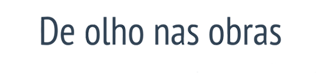
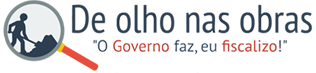
Ajustamentos nos logotipos e alguns estilos

diff --git a/gd/content/templates/resultados.html b/gd/content/templates/resultados.html
@@ -2,6 +2,20 @@
 
 {% block javascript %}
 <script src="{{ url_for('static', filename='js/base/resultados.js') }}"></script>
+<style type="text/css">
+  
+#govpreguntalogo{
+  width: 45px;
+}
+#govpreguntatitle{
+  background: none repeat scroll 0% 0% transparent;
+  height: auto;
+  padding: 10px 0px 15px 0px;
+  text-indent: 0px;
+  width: 100%;
+}
+
+</style>
 {% endblock %}
 
 {% block content %}
@@ -9,7 +23,8 @@
   <div class="container">
     <div class="row header">
       <div class="span10">
-        <h1>{{wp.getPageByPath('result-govpergunta-%s-header' % ano).title|safe}}</h1>
+        <h1 id="govpreguntalogo"></h1>
+        <h2 id="govpreguntatitle">{{wp.getPageByPath('result-govpergunta-%s-header' % ano).title|safe}}</h1>
       </div>
     </div>
     <div class="row">
